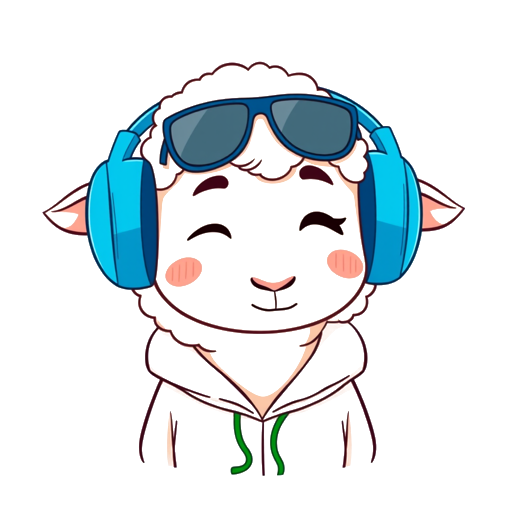
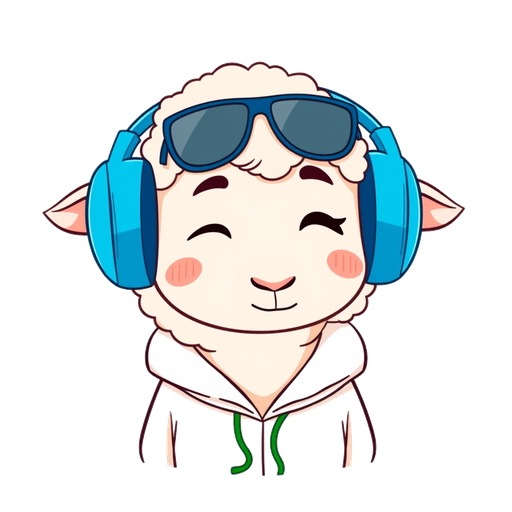
Corrige remocao de fundo do mascote e padroniza copy "devocional"
- Remocao de fundo refeita com flood-fill a partir das bordas
  (Python/PIL) em vez de chroma key por proximidade de cor -- a
  primeira versao comia partes claras do proprio personagem (rosto,
  la), deixando manchas translucidas visiveis sobre fundos escuros
  (bug real, visivel no fechamento verde do trailer)
- normal/celebrating/waiting trocam de lumi-sassy.png (expressao
  emburrada, errada pra telas de boas-vindas) para lumi-happy.png
- Padroniza "momento"/"meu momento" para "devocional" nos textos
  visiveis ao usuario: CTA da tela Hoje, CTA e mensagens de status da
  tela de devocional, falas do Lumi (lumiGreeting), notificacoes
  diarias -- mantém achievement "first_moment" (nome de conquista, nao
  sinonimo de devocional)

diff --git a/src/features/lumi/LumiMascot.tsx b/src/features/lumi/LumiMascot.tsx
@@ -37,15 +37,16 @@ type LumiMascotProps = {
 /**
  * Arte oficial do Lumi (ilustrado, fundo transparente, 512x512 fonte).
  * Mapeamento aproximado — a arte ainda não cobre 1:1 as 5 variantes do
- * MVP: "celebrating" reaproveita a imagem feliz (a mais festiva
- * disponível) e "waiting" reaproveita a expressão neutra/séria, até
- * termos ilustrações dedicadas para esses dois estados.
+ * MVP: "normal", "celebrating" e "waiting" reaproveitam a imagem feliz
+ * (a mais acolhedora disponível; a alternativa "sassy" tem expressão
+ * emburrada demais para telas neutras como auth/onboarding), até
+ * termos ilustrações dedicadas para esses estados.
  */
 const IMAGE_BY_VARIANT: Record<LumiMoodVariant, ImageSourcePropType> = {
-  normal: require('../../../assets/lumi/lumi-sassy.png'),
+  normal: require('../../../assets/lumi/lumi-happy.png'),
   happy: require('../../../assets/lumi/lumi-happy.png'),
   celebrating: require('../../../assets/lumi/lumi-happy.png'),
-  waiting: require('../../../assets/lumi/lumi-sassy.png'),
+  waiting: require('../../../assets/lumi/lumi-happy.png'),
   missing_you: require('../../../assets/lumi/lumi-sad.png'),
 };
 

diff --git a/src/features/devotional/useDevotional.ts b/src/features/devotional/useDevotional.ts
@@ -66,7 +66,7 @@ export function useDevotional() {
       .single();
 
     if (insertError || !newSession) {
-      setError(insertError?.message ?? 'Não foi possível iniciar o momento devocional.');
+      setError(insertError?.message ?? 'Não foi possível iniciar o devocional.');
       setState({ content, session: null });
       setLoading(false);
       return;
@@ -101,7 +101,7 @@ export function useDevotional() {
       setCompleting(false);
 
       if (rpcError || !data?.[0]) {
-        setError(rpcError?.message ?? 'Não foi possível concluir o momento.');
+        setError(rpcError?.message ?? 'Não foi possível concluir o devocional.');
         return null;
       }
 

diff --git a/app/devocional/index.tsx b/app/devocional/index.tsx
@@ -33,7 +33,7 @@ export default function DevocionalScreen() {
   if (loading) {
     return (
       <ScreenContainer style={styles.centered}>
-        <Text style={typography.body}>Preparando seu momento…</Text>
+        <Text style={typography.body}>Preparando seu devocional…</Text>
       </ScreenContainer>
     );
   }
@@ -106,7 +106,7 @@ export default function DevocionalScreen() {
       {error ? <Text style={styles.errorText}>{error}</Text> : null}
 
       <Button
-        label="Concluir meu momento"
+        label="Concluir meu devocional"
         onPress={handleComplete}
         disabled={completing || !session}
       />

diff --git a/src/features/home/lumiGreeting.ts b/src/features/home/lumiGreeting.ts
@@ -24,7 +24,7 @@ export function lumiGreeting(daysSinceLastCompleted: number | null) {
     return {
       mood,
       title: 'Oi! Eu sou o Lumi.',
-      subtitle: 'Seu primeiro momento está esperando. Bora começar?',
+      subtitle: 'Seu primeiro devocional está esperando. Bora começar?',
     };
   }
 
@@ -40,7 +40,7 @@ export function lumiGreeting(daysSinceLastCompleted: number | null) {
     return {
       mood,
       title: 'Bora hoje?',
-      subtitle: 'Seu momento de hoje ainda não começou. Bora?',
+      subtitle: 'Seu devocional de hoje ainda não começou. Bora?',
     };
   }
 

diff --git a/src/features/notifications/scheduleDailyReminder.ts b/src/features/notifications/scheduleDailyReminder.ts
@@ -11,8 +11,8 @@ const ALTERNATE_DELAY_HOURS = 4;
  *   - Lembrete alternativo é mais leve, nunca soa como cobrança.
  */
 const DAILY_MESSAGES = [
-  'Seu momento com o Lumi está esperando. 🐑',
-  'Hora do seu momento diário — não precisa ser longo, só constante.',
+  'Seu devocional com o Lumi está esperando. 🐑',
+  'Hora do seu devocional diário — não precisa ser longo, só constante.',
   'Bora? Alguns minutos são suficientes pra hoje.',
 ];
 

diff --git a/app/(tabs)/index.tsx b/app/(tabs)/index.tsx
@@ -33,7 +33,7 @@ export default function HojeScreen() {
       </Card>
 
       <Button
-        label={completedToday ? 'Fazer mais um momento' : 'Começar meu momento'}
+        label={completedToday ? 'Fazer mais um devocional' : 'Começar meu devocional'}
         variant={completedToday ? 'ghost' : 'primary'}
         onPress={() => router.push('/devocional')}
       />

diff --git a/README.md b/README.md
@@ -108,13 +108,15 @@ Qualquer copy, texto do Lumi ou nova UI deve respeitar as skills
 ## Mascote Lumi
 
 `src/features/lumi/LumiMascot.tsx` renderiza a arte oficial ilustrada do
-Lumi (`assets/lumi/*.png`, 512×512, fundo transparente, otimizada com
-ffmpeg a partir dos originais 1024×1024). Mapeamento das 5 variantes do
-MVP (`normal`, `happy`, `celebrating`, `waiting`, `missing_you`) para os
+Lumi (`assets/lumi/*.png`, 512×512, fundo transparente — remoção de fundo
+por flood-fill a partir das bordas, não chroma key por proximidade de cor,
+que comia partes claras do próprio personagem). Mapeamento das 5 variantes
+do MVP (`normal`, `happy`, `celebrating`, `waiting`, `missing_you`) para os
 arquivos de imagem — a arte ainda não cobre 1:1 todas as variantes:
-`celebrating` reaproveita `lumi-happy.png` e `waiting` reaproveita
-`lumi-sassy.png`, até termos ilustrações dedicadas. `lumi-surprised.png`
-e `lumi-accessory-glasses.png` chegaram no mesmo lote mas ainda não são
+`normal`, `celebrating` e `waiting` reaproveitam `lumi-happy.png` (a
+imagem mais acolhedora disponível), até termos ilustrações dedicadas.
+`lumi-surprised.png` e `lumi-accessory-glasses.png` chegaram no mesmo lote
+mas ainda não são
 usadas — ficam para quando o conjunto de estados for expandido na Fase 2.
 
 ## Autenticação
